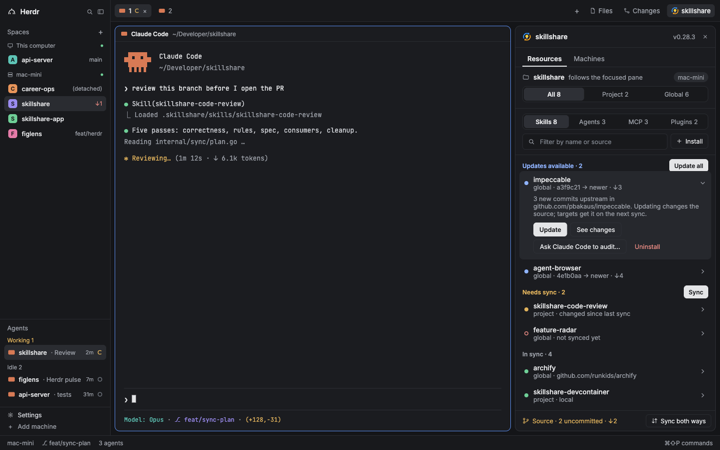
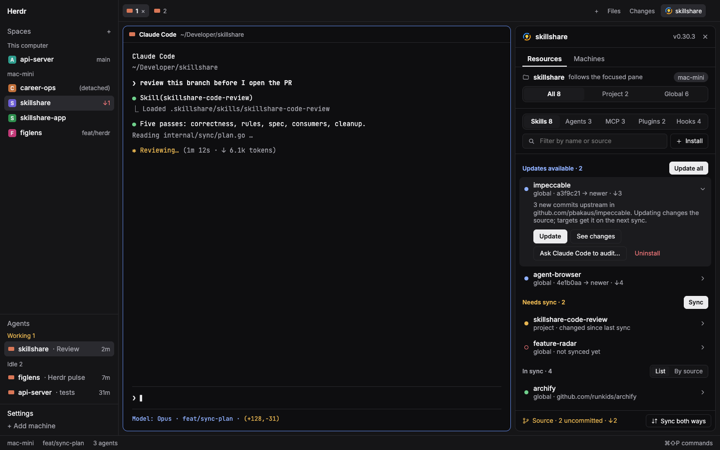
docs(herdr): lead the panel's README and recipe with what skillshare is
A third of the repository's visitors arrive from herdr.dev and land on
herdr/skillshare, where the README opened with install steps and no
picture, and never said what skillshare is or linked back to it. The
recipe's first paragraph, which the Herdr gallery shows as the layout's
description, did not mention the Machines tab.

The preview was also stale: it predated the Hooks kind and the
List / By source switch. Redraw it from the design board, add a
three-view picture for the README, and refresh the copies that follow it.

diff --git a/herdr/skillshare/README.md b/herdr/skillshare/README.md
@@ -1,9 +1,26 @@
 # skillshare for Herdr
 
-A Herdr panel for the skillshare CLI. It shows what the focused space's project and the
-global source hold—skills, agents, MCP servers, plugins and hooks—and what needs an update or a sync. It updates, syncs, installs from a
-URL, uninstalls, hands an audit to the focused agent, syncs the source repository both
-ways, and shows each Herdr machine's skillshare on a Machines tab.
+![The skillshare panel in Herdr: what needs an update or a sync, hooks for every agent, and every machine](panels.png)
+
+[skillshare](../../README.md) keeps your skills, agents, MCP servers, plugins and hooks in one
+source you control and syncs them to Claude Code, Codex, Gemini CLI and the other AI coding tools
+you use. This panel puts it beside your agents in [Herdr](https://herdr.dev):
+
+- **See what is out of date.** The focused space's project and your global source, grouped into
+  Updates available, Needs sync and In sync.
+- **Fix it without leaving Herdr.** Update, sync, uninstall, or install from a URL; every install
+  is audited first, and a blocked one shows its findings before anything is written.
+- **Ask your agent.** Hand an audit of any skill to the focused agent.
+- **Every machine.** The Machines tab shows each Herdr machine's version, source state and drift,
+  with Pull and sync.
+- **The source repository.** Pull, push or sync both ways, and pick a version per file when both
+  sides changed it.
+
+New to skillshare? Start with the [main README](../../README.md) or the
+[docs](https://skillshare.runkids.cc/docs/learn/with-herdr). If the panel saves you time, a star on
+[runkids/skillshare](https://github.com/runkids/skillshare) helps other people find it.
+
+![Herdr with the skillshare panel beside a Claude Code session](preview.png)
 
 ## Install
 

diff --git a/herdr/skillshare/RECIPE.md b/herdr/skillshare/RECIPE.md
@@ -1,8 +1,10 @@
 # Herdr + skillshare
 
-Herdr's default window with a skillshare button in the tab bar and a skillshare panel beside the work area. The panel shows what the focused space's project and your global skillshare source hold: which skills, agents, MCP servers, plugins and hooks need an update or a sync. From the panel you can update, sync, install from a URL, uninstall, ask the focused agent to audit something, and sync the source repository both ways.
+skillshare beside your agents. Herdr's default window gains a skillshare button in the tab bar and a panel beside the work area that shows which of your skills, agents, MCP servers, plugins and hooks need an update or a sync, in the focused space's project and in your global source. From the panel you update, sync, install from a URL with an audit first, uninstall, ask the focused agent to audit something, sync the source repository both ways, and check skillshare on every Herdr machine.
 
 ![Herdr + skillshare](preview.png)
+
+skillshare keeps one source of skills, agents, MCP servers, plugins and hooks and syncs it to Claude Code, Codex, Gemini CLI and the other AI coding tools you use. New to it? Start with the [main README](../../README.md); this folder's [README](README.md) covers installing the panel.
 
 ## What you see
 

diff --git a/herdr/AGENTS.md b/herdr/AGENTS.md
@@ -7,4 +7,4 @@ A Herdr mod and layout for skillshare. Herdr runs mods in QuickJS with its own U
 - `main.js` imports `herdr`; check it with `herdr-app check <mod folder>` on a machine with Herdr. QuickJS rejects `??` mixed with `||`/`&&` without parentheses, which node accepts.
 - Use Herdr theme tokens only. Never keep a `cx` past its callback, call `setShared`/`notify` during render, or pass `null` to `.child`.
 - `model.js` parses the CLI's `--json` output (`loader.js` reads a few `status` and `doctor` fields) and mirrors `internal/install/metadata_merge.go`. Change both sides together.
-- Keep `README.md`, `RECIPE.md` and the code in step. `RECIPE.md` describes only what the build does; `preview.png` is the design board's Main page, not a capture of private data.
+- Keep `README.md`, `RECIPE.md` and the code in step. `RECIPE.md` describes only what the build does; `preview.png` is the design board's Main page, not a capture of private data. Redraw `panels.png` and the site copy too.
